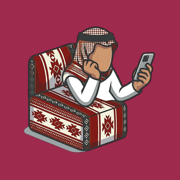
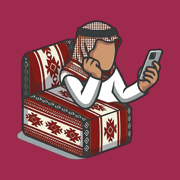
v16.19: لونُ الهويّة للتطبيق وحده، وأيقونةٌ تُقرأ عند ٦٠ بكسلاً
- أمرُ ناصر: الموقعُ يبقى على ألوانه (والموسم على ألوانه)، والعنّابيُّ
  للتطبيق المثبَّت. فـ<meta theme-color> يتبع خلفيّةَ الموقع، والبيانُ
  والأيقوناتُ وبلاطةُ ويندوز تحمل لونَ الهويّة. والحارسُ يقرأ خلفيّةَ
  الموقع من نفس الملفّ فلا رقمَ يُكتب بيد.
- أيقونتان لا واحدة: any عند ٠٫٨٢ وmaskable عند ٠٫٦٨. كان الملفُّ الواحد
  معلَناً للوسمين فأُجبرت الرسمةُ على مساحة أمان القناع وظهرت صغيرةً على
  كلّ جهازٍ لا يقصّ. قُورنا بالنظر عند ٦٠ بكسلاً.

diff --git a/scripts/check-brand-color.js b/scripts/check-brand-color.js
@@ -79,7 +79,8 @@ const want = [Number(m[1]), Number(m[2]), Number(m[3])];
 console.log(`     المرجع: ${hex(want)}`);
 
 // ② البكسلُ المحروقُ في الأيقونات — قياسٌ لا نصّ
-for (const f of ['logo512.png', 'logo192.png', 'apple-touch-icon.png']) {
+for (const f of ['logo512.png', 'logo192.png', 'apple-touch-icon.png',
+                 'logo512-maskable.png', 'logo192-maskable.png']) {
     let got = null, err = '';
     try { got = firstPixel(B(f)); } catch (e) { err = e.message; }
     check(`${f}: بكسلُ الخلفية يطابق BRAND_BG`,
@@ -95,14 +96,27 @@ for (const k of ['background_color', 'theme_color']) {
         && parse(v).every((c, i) => c === want[i]), `${k} = ${v}`);
 }
 
-// ④ index.html
+// ④ 🔴 **الفصلُ المقصود** (أمرُ ناصر ١٣ نوفمبر): لونُ الهويّة للتطبيق،
+//    والموقعُ على لون سطحه. فـ`theme-color` يلوّن شريطَ المتصفّح **وأنت
+//    تتصفّح الموقع** ⇒ يتبع خلفيّةَ الموقع؛ و`msapplication-TileColor`
+//    بلاطةُ التطبيق ⇒ لونُ الهويّة. وخلطُهما يُعيد العيبَ الذي رفضه ناصر.
 const html = strip(R('index.html'));
-const metas = [...html.matchAll(/<meta\s+name="(?:theme-color|msapplication-TileColor)"\s+content="(#[0-9a-fA-F]{6})"/g)]
-    .map(x => x[1]);
-check('index.html فيه وسومُ اللون الثلاثة', metas.length === 3, `وجدتُ ${metas.length}`);
-check('وكلُّها تطابق BRAND_BG',
-    metas.length > 0 && metas.every(v => parse(v).every((c, i) => c === want[i])),
-    `القيم: ${metas.join(' · ')}`);
+const tile = (/<meta\s+name="msapplication-TileColor"\s+content="(#[0-9a-fA-F]{6})"/.exec(html) || [])[1];
+check('بلاطةُ التطبيق تحمل لونَ الهويّة',
+    !!tile && parse(tile).every((c, i) => c === want[i]), `TileColor = ${tile}`);
+
+const themeDark = (/<meta\s+name="theme-color"\s+content="(#[0-9a-fA-F]{6})"\s+media="\(prefers-color-scheme: dark\)"/.exec(html) || [])[1];
+const themeLight = (/<meta\s+name="theme-color"\s+content="(#[0-9a-fA-F]{6})"\s+media="\(prefers-color-scheme: light\)"/.exec(html) || [])[1];
+check('وسمَا theme-color موجودان', !!themeDark && !!themeLight,
+    `داكن=${themeDark} فاتح=${themeLight}`);
+// ويطابقان **خلفيّةَ الموقع المعلنة في نفس الملفّ** — لا رقمَين يُكتبان بيد.
+const bodyLight = (/body\s*\{[^}]*background-color:\s*(#[0-9a-fA-F]{6})/.exec(html) || [])[1];
+const bodyDark = (/prefers-color-scheme:\s*dark\)\s*\{\s*body\s*\{\s*background-color:\s*(#[0-9a-fA-F]{6})/.exec(html) || [])[1];
+check('ويتبعان خلفيّةَ الموقع لا لونَ الهويّة',
+    !!bodyLight && !!bodyDark
+    && themeLight.toLowerCase() === bodyLight.toLowerCase()
+    && themeDark.toLowerCase() === bodyDark.toLowerCase(),
+    `theme(${themeLight}/${themeDark}) مقابل body(${bodyLight}/${bodyDark})`);
 
 // ⑤ 🔴 **المُخرَج، لا المصدر: العناوينُ المبصومةُ وبكسلاتُها.**
 //    وهنا صُحِّح تشخيصٌ خاطئ لي: أضفتُ أوّلاً `?v=` إلى عناوين الأيقونات
@@ -136,6 +150,22 @@ check('وكلُّها تطابق BRAND_BG',
                 got ? `وجدتُ ${hex(got)} والمطلوب ${hex(want)}` : err);
         }
     }
+}
+
+// ⑥ 🔴 **`any` و`maskable` ملفّان مختلفان، لا ملفٌّ واحدٌ بوسمين.**
+//    حين يُعلَن الملفُّ نفسُه للاثنين تُجبَر الرسمةُ على مساحةِ أمان القناع
+//    (٠٫٦٨) فتظهر صغيرةً في وسط فراغٍ على كلّ جهازٍ **لا** يقصّ — وهو أغلبُ
+//    المواضع. (قِيس بالنظر عند ٦٠ بكسلاً: ٠٫٨٢ تُقرأ و٠٫٦٨ لا.)
+{
+    const anyIcons = (man.icons || []).filter((i) => String(i.purpose) === 'any').map((i) => i.src);
+    const maskIcons = (man.icons || []).filter((i) => String(i.purpose) === 'maskable').map((i) => i.src);
+    check('البيانُ يُعلن `any` و`maskable`', anyIcons.length >= 2 && maskIcons.length >= 2,
+        `any=${anyIcons.length} maskable=${maskIcons.length}`);
+    check('وهما ملفّان مختلفان لا ملفٌّ واحد',
+        anyIcons.every((u) => !maskIcons.includes(u)),
+        `تداخل: ${anyIcons.filter((u) => maskIcons.includes(u)).join(' · ')}`);
+    check('وملفُّ القناع موسومٌ باسمه', maskIcons.every((u) => /-maskable\.png$/.test(u)),
+        maskIcons.join(' · '));
 }
 
 console.log(`\n${fail === 0 ? '✅' : '❌'} ${pass} ناجح · ${fail} فاشل\n`);

diff --git a/index.html b/index.html
@@ -46,8 +46,14 @@
   <meta name="twitter:image" content="https://www.takisa.net/og-image.png">
 
   <!-- Light/dark theme-color so the iOS / Android status bar matches the app chrome in either mode -->
-  <meta name="theme-color" content="#9E2B4E" media="(prefers-color-scheme: dark)">
-  <meta name="theme-color" content="#9E2B4E" media="(prefers-color-scheme: light)">
+  <!-- 🔴 v16.19 (أمرُ ناصر): **الموقعُ على لونه، والعنّابيُّ للتطبيق وحده.**
+       «أمّا الموقع فبناءً على لون الموقع — مثلاً موسم العروض أبقها بنفس
+       ألوانها. فقط هنا كلوقو للتطبيق الجوال.»
+       فهذان الوسمان يلوّنان شريطَ المتصفّح **وأنت تتصفّح الموقع**، فيبقيان
+       على لون سطح الموقع. ولونُ الهويّة (`BRAND_BG`) يبقى في **البيان**
+       و**الأيقونات** — وهما ما يراه المستخدمُ كتطبيقٍ مثبَّت. -->
+  <meta name="theme-color" content="#0f172a" media="(prefers-color-scheme: dark)">
+  <meta name="theme-color" content="#f1f5f9" media="(prefers-color-scheme: light)">
   <meta name="color-scheme" content="light dark">
   <!-- iOS PWA / Add-to-Home-Screen -->
   <meta name="apple-mobile-web-app-capable" content="yes">

diff --git a/sw.js b/sw.js
@@ -17,7 +17,7 @@
 // the install/activate handlers never fire and users keep getting cached
 // HTML / CSS from the previous release. (Bug observed v10.1–v10.14: 14
 // deploys all kept serving v10.0 builds because nobody bumped this.)
-const CACHE_NAME = 'taki-cache-v16.18';
+const CACHE_NAME = 'taki-cache-v16.19';
 // 🔴 v14.05 — كان فيها '/manifest.json' وهو **404** (الاسم الصحيح
 // manifest.webmanifest). و`cache.addAll` **يرفض الدفعة كاملة** إن فشل عنصر
 // واحد ⇒ فشل التثبيت في كل تحديث، ثم يمسح التفعيلُ المخزونَ القديم فلا يبقى

diff --git a/scripts/lib/logo_build.py b/scripts/lib/logo_build.py
@@ -82,9 +82,18 @@ def main():
     #    🪤 والدرسُ: سلوكُ أيقونةِ المنصّة يُقاس على جهازٍ حقيقيّ، ولا يُتوقَّع.
     # 🔴 والبيانُ يُعلن `purpose: maskable` (صحيحٌ مع خلفيةٍ مُصمتة)، وأندرويد
     #    يقصّ خارج دائرةٍ قطرُها ٨٠٪. فنسبةُ ٠٫٦٨ تُبقي الرأسَ والجوّالَ داخلها.
+    # 🔴 v16.19 (أمرُ ناصر: «أريده واضحاً للمستخدم عند تقليبه بين البرامج»):
+    #    **مقاسان لا مقاسٌ واحد.** كان الملفُّ نفسُه يُعلَن `any` و`maskable`
+    #    معاً، فاضطرّت الرسمةُ كلُّها إلى ٠٫٦٨ — وهي مساحةُ أمان **القناع**
+    #    وحده (أندرويد يقصّ خارج دائرةٍ قطرُها ٨٠٪). والنتيجةُ رسمةٌ صغيرةٌ
+    #    في وسط فراغٍ على كلّ جهازٍ لا يقصّ — وهو أغلبُ المواضع (آيفون ·
+    #    قوائمُ أندرويد · تبويبُ المتصفّح).
+    #    ⇒ `any` عند ٠٫٨٢ (تملأ ولا تلامس الحافّة)، و`maskable` تبقى ٠٫٦٨.
     for size in (512, 192):
-        emit(f'logo{size}.png', place(size, size, art, 0.68, BRAND_BG))
-    emit('apple-touch-icon.png', place(180, 180, art, 0.74, BRAND_BG))
+        emit(f'logo{size}.png', place(size, size, art, 0.82, BRAND_BG))
+        emit(f'logo{size}-maskable.png', place(size, size, art, 0.68, BRAND_BG))
+    # آيفون يقصّ بزوايا مستديرةٍ لا بدائرة، فـ٠٫٨٢ آمنةٌ هنا أيضاً.
+    emit('apple-touch-icon.png', place(180, 180, art, 0.82, BRAND_BG))
 
     # ── علامةٌ شفّافةٌ خفيفةٌ للترويسة وشاشة الدخول ───────────────────────
     # 🪤 ولا تُستعمل `logo192` هناك: تلك على خلفيةٍ داكنةٍ صلبة، فتظهر مربّعاً

diff --git a/progress.md b/progress.md
@@ -3,6 +3,37 @@
 > منصة حجز التخفيضات في السعودية. React 18 + Parcel + Supabase + Vercel.
 > المالك: ناصر (غير مبرمج — كل التنفيذ يتم من جهة Claude).
 
+## v16.19 — الهويّةُ للتطبيق، والموقعُ على لونه · ١٣ نوفمبر ٢٠٢٦
+
+أمرُ ناصر: «أمّا الموقع فبناءً على لون الموقع — مثلاً موسم العروض أبقها بنفس
+ألوانها. **فقط هنا كلوقو للتطبيق الجوال**، وأيضاً سيصبح لون اللوقو الرئيسي.»
+
+| الموضع | ماذا يلوّن | القرار |
+|---|---|---|
+| أيقوناتُ التطبيق · `manifest.background_color` · `theme_color` · بلاطةُ ويندوز | **التطبيقُ المثبَّت** | عنّابيّ `#9E2B4E` |
+| `<meta theme-color>` | شريطُ المتصفّح **وأنت تتصفّح الموقع** | يتبع خلفيّةَ الموقع |
+
+والحارسُ يفرض الفصلَ لا يصفُه: يقرأ خلفيّةَ الموقع **من نفس الملفّ** ويطابقها
+بـ`theme-color` — فلا رقمَين يُكتبان بيد، وخلطُ الاثنين يُفشل البناء.
+
+### وأيقونةٌ تُقرأ عند ٦٠ بكسلاً
+
+كان الملفُّ نفسُه معلَناً `any` و`maskable` معاً ⇒ الرسمةُ مجبرةٌ على **٠٫٦٨**
+(مساحةُ أمان قناع أندرويد: يقصّ خارج دائرةٍ قطرُها ٨٠٪). فتظهر صغيرةً في وسط
+فراغٍ على كلّ جهازٍ **لا** يقصّ — آيفون وقوائمُ أندرويد وتبويبُ المتصفّح، وهي
+أغلبُ ما يراه المستخدم.
+⇒ ملفّان: `any` عند **٠٫٨٢**، و`-maskable` تبقى ٠٫٦٨. وقُورنا **بالنظر** عند
+حجم الأيقونة الحقيقيّ (٦٠ بكسلاً) قبل الشحن.
+
+🪤 **ولماذا لم يرَ ناصر العنّابيَّ أصلاً** (وقد صُحّح تشخيصي مرّتين): ليس
+`max-age` ولا اسمَ الملفّ — **آيفون يطبع الأيقونةَ لحظةَ «أضف إلى الشاشة
+الرئيسية» ولا يُراجعها أبداً**. فالعلاجُ الوحيد حذفُها وإعادةُ إضافتها.
+
+**الكسرات:** ٣/٣ على حارس الفصل (خلطُ الموقع بالتطبيق · بلاطةٌ بلا هويّة ·
+ملفٌّ واحدٌ للوسمين).
+
+---
+
 ## v16.18 — المحادثةُ تبقى مفتوحةً بعد الإغلاق · ١٣ نوفمبر ٢٠٢٦
 
 ### بلاغُ ناصر، وهو تناقضٌ مقيس
